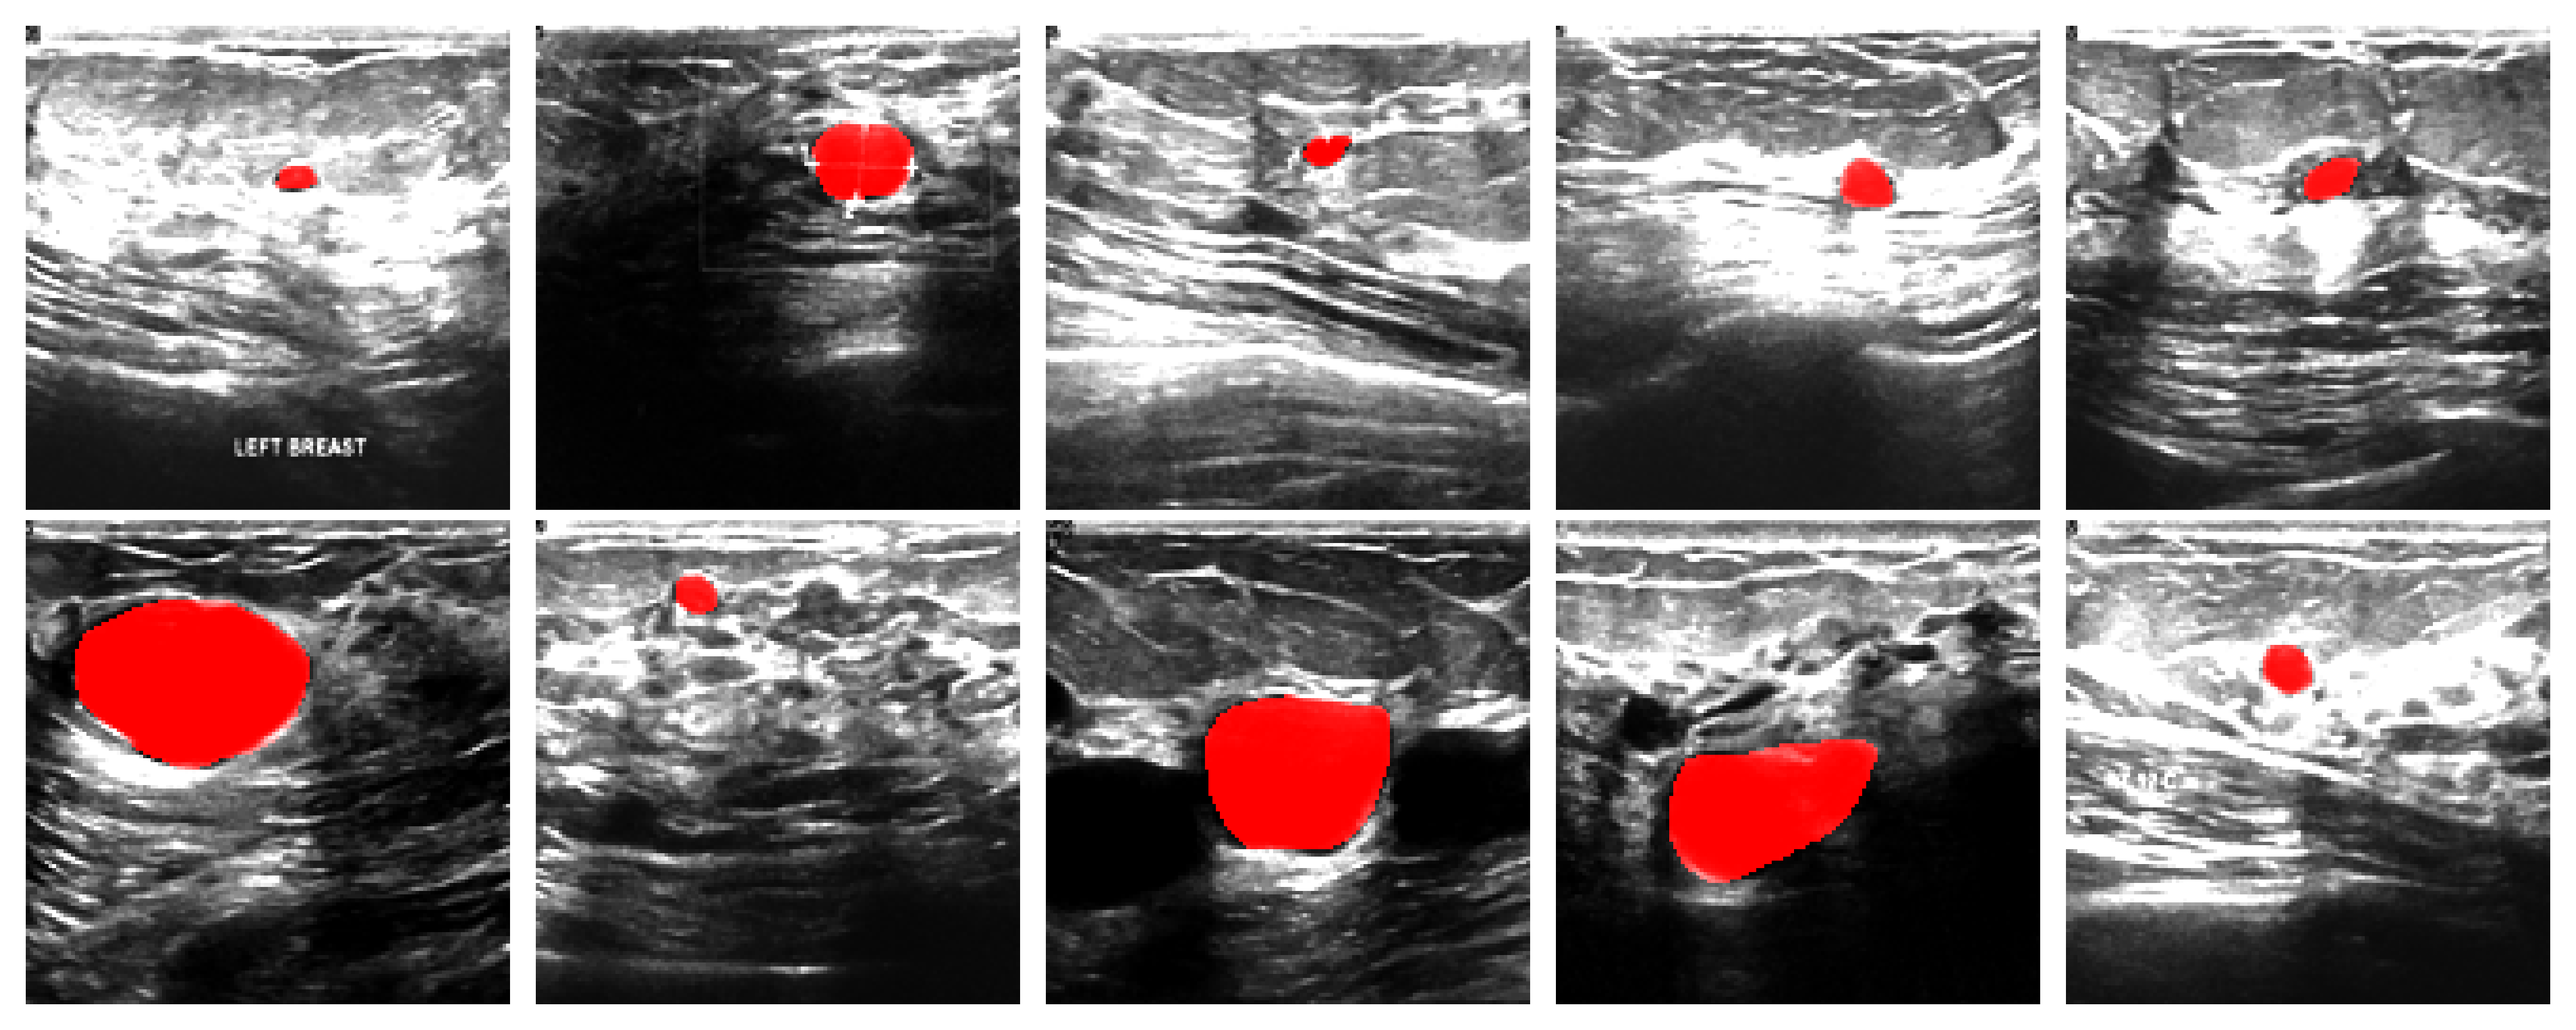
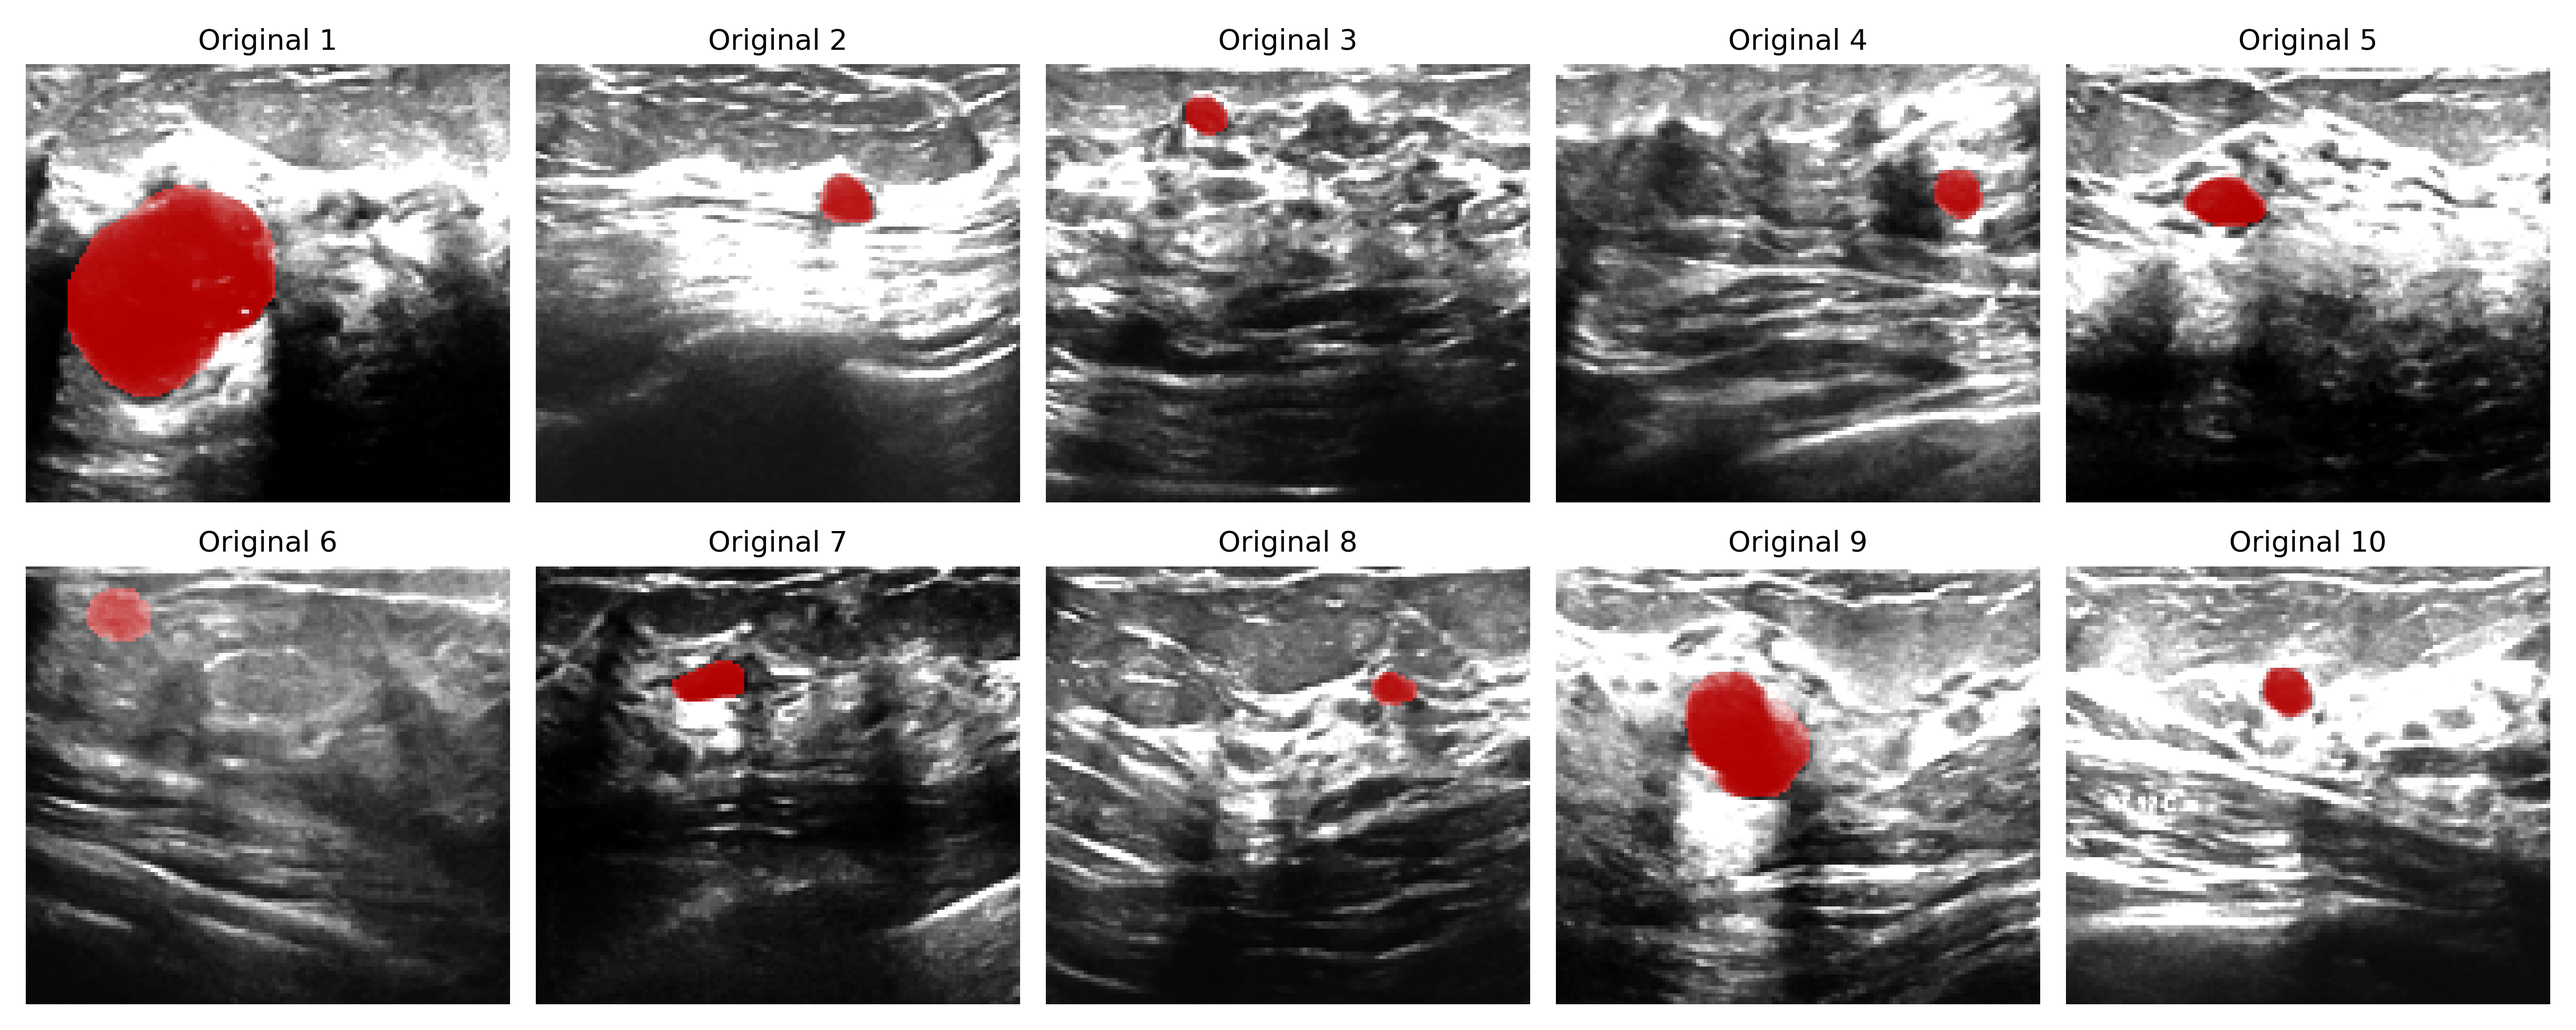
Edit overlay images and codes

diff --git a/utils/visualize.py b/utils/visualize.py
@@ -1,24 +1,13 @@
 import random
 import matplotlib.pyplot as plt
 
-# Visualize random samples from the dataset with mask overlay and save as one image
 def visualize_with_mask(dataset, output_file="visualization.png", figsize=(15, 6)):
-    """
-    Visualize samples with masks overlayed in a 2x5 grid using fixed index multiples of 5.
+    num_samples = 10  # Total number of samples to display
+    _, axes = plt.subplots(2, 5, figsize=figsize)
 
-    Args:
-        dataset: PyTorch Dataset containing images and masks.
-        output_file (str): Path to save the output image.
-        figsize (tuple): Figure size for the plot.
-    """
-    num_samples = 10  # 2x5 grid
-    indices = [i * 5 for i in range(num_samples)]  # Fixed indices (5's multiple)
-
-    fig, axes = plt.subplots(2, 5, figsize=figsize)
-
-    for idx, ax in zip(indices, axes.flat):
+    for i in range(num_samples):
         # Load the image and mask
-        image, mask = dataset[idx]
+        image, mask = dataset[i]
 
         # Prepare image and mask for visualization
         image_np = image.permute(1, 2, 0).numpy() * 0.5 + 0.5  # De-normalize
@@ -28,9 +17,19 @@ def visualize_with_mask(dataset, output_file="visualization.png", figsize=(15, 6
         overlay = image_np.copy()
         overlay[..., 0] = image_np[..., 0] * (1 - mask_np) + mask_np  # Add mask to red channel
 
-        # Display the image with overlay
-        ax.imshow(overlay)
-        ax.axis("off")
+        # Determine the row and column position
+        row = i // 5
+        col = i % 5
+
+        # Display the original image
+        axes[row, col].imshow(image_np)
+        axes[row, col].set_title(f"Original {i+1}")
+        axes[row, col].axis("off")
+
+        # Display the overlay image
+        overlay_ax = axes[row, col].twinx()  # Overlay on the same subplot
+        overlay_ax.imshow(overlay, alpha=0.7)
+        overlay_ax.axis("off")
 
     plt.tight_layout()
     plt.savefig(output_file, dpi=300)

diff --git a/main.py b/main.py
@@ -9,7 +9,7 @@ from data.dataset import BreastUltrasoundDataset, split_dataset
 from data.transforms import get_transform
 from models.unet import UNet
 from utils.dice_loss import DiceLoss, dice_score
-from utils.visualize import print_training_info
+from utils.visualize import print_training_info, visualize_with_mask
 
 if __name__ == "__main__":
     # Argument parsing
@@ -38,7 +38,7 @@ if __name__ == "__main__":
     elif args.dataset == "fuzzy":
         dataset_name = "fuzzy"
         selected_dataset = BreastUltrasoundDataset(fuzzy_benign_path, ground_truth_path, transform=transform)
-
+    
     dataset_size = len(selected_dataset)
 
     train_size = int(0.7 * dataset_size)
@@ -47,6 +47,9 @@ if __name__ == "__main__":
 
     train_dataset, val_dataset, test_dataset = split_dataset(selected_dataset, test_ratio=0.1, val_ratio=0.2, random_seed=42)
 
+    visualize_with_mask(test_dataset, output_file=f'./config/{dataset_name}_Benign_Overlay.png')
+
+    
     # Initialize batch size, num_epochs and patience
     batch_size = 8
     num_epochs = 100
